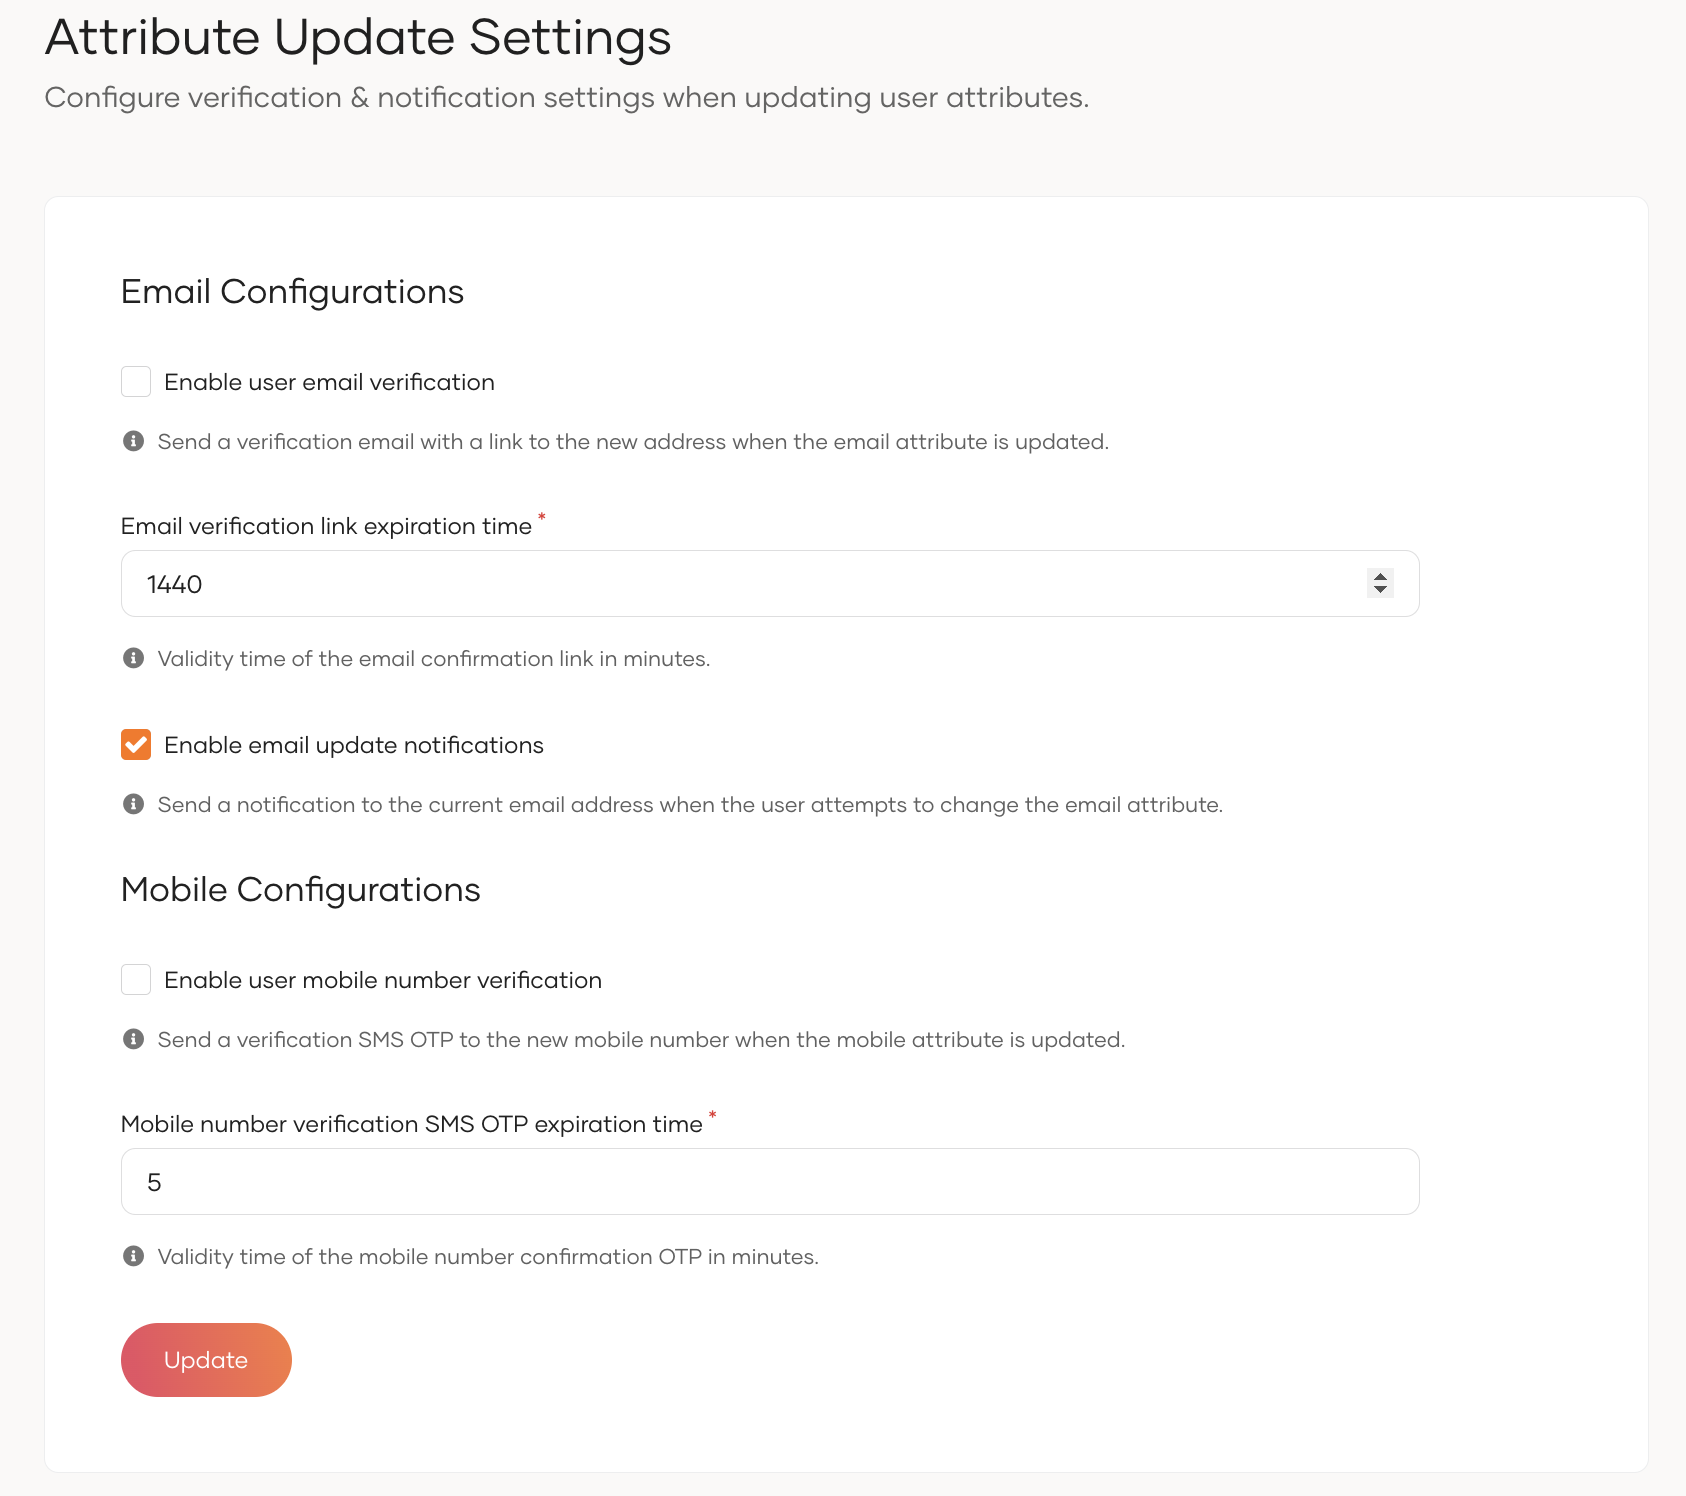
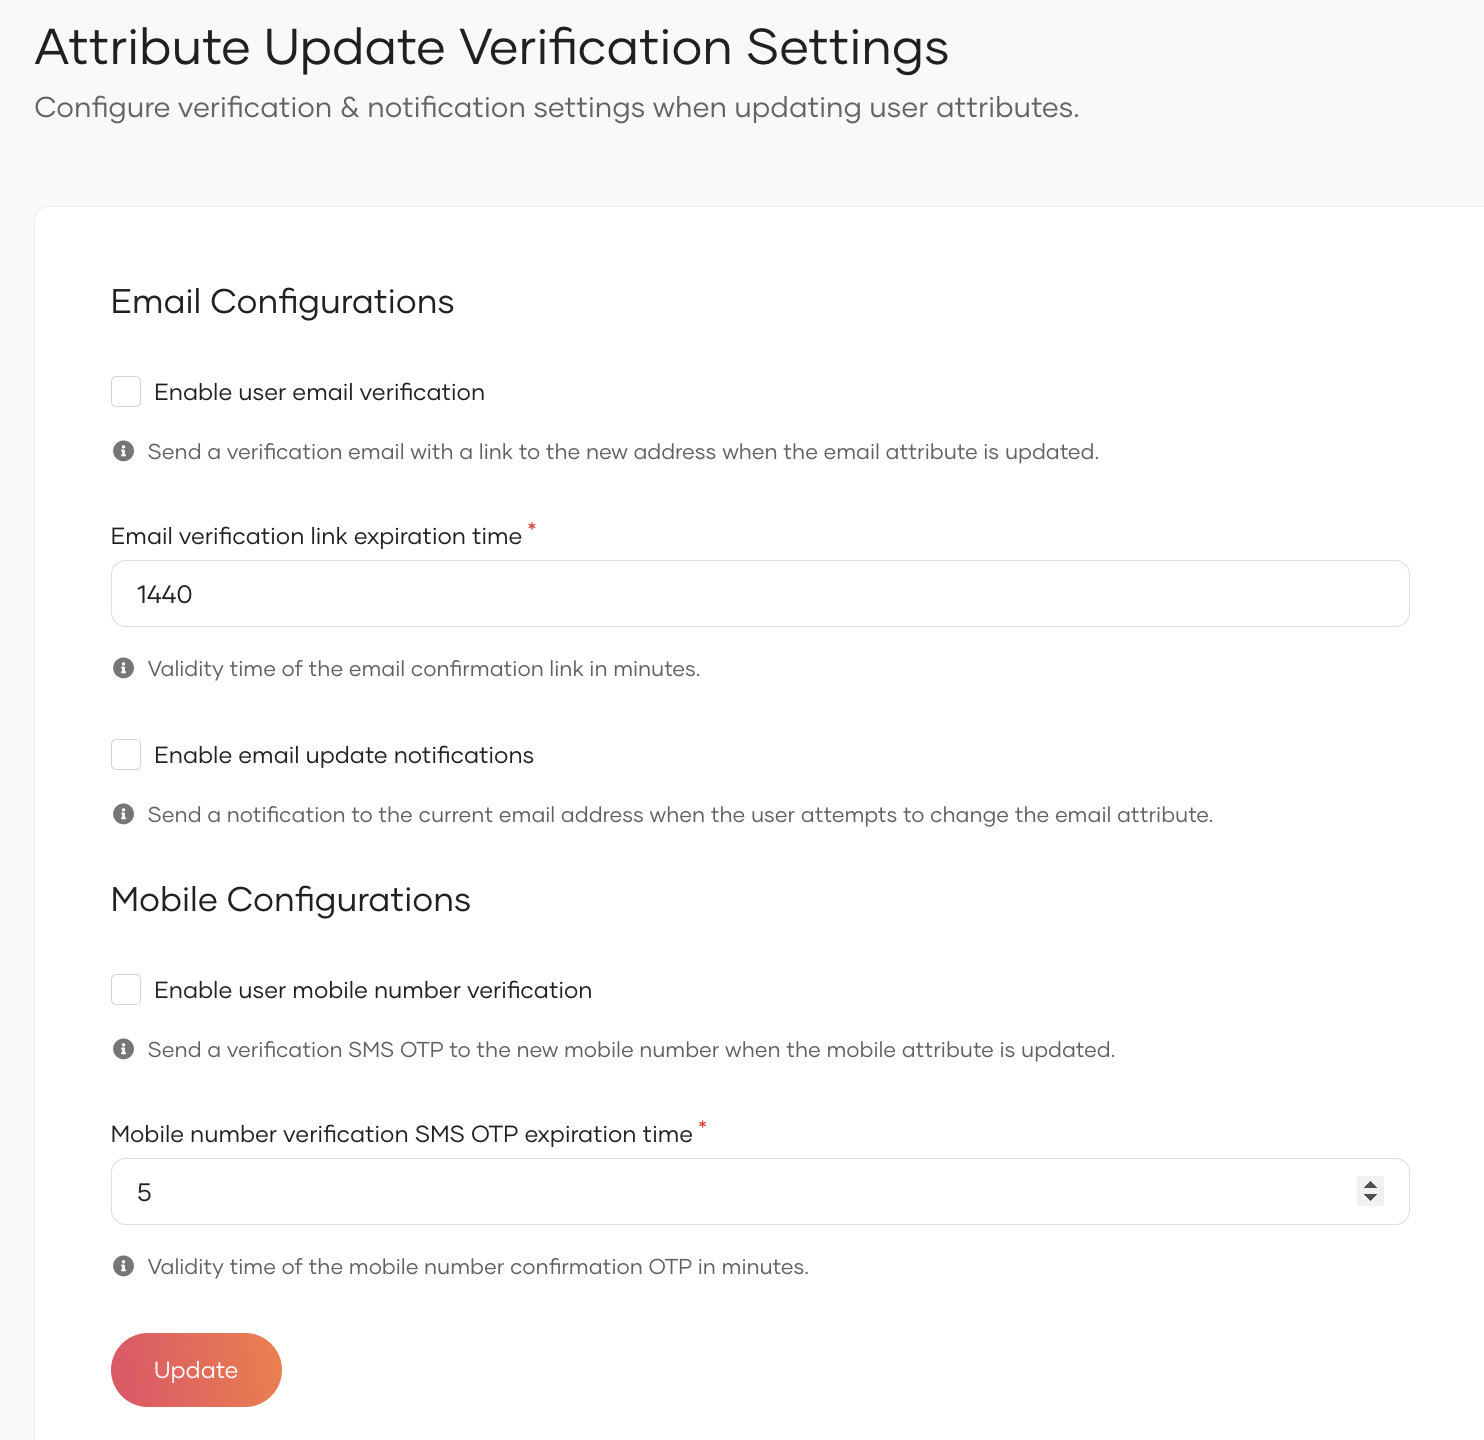
Update image and text of Attribute update verification settings docs

diff --git a/en/includes/guides/users/attributes/user-attribute-change-verification.md b/en/includes/guides/users/attributes/user-attribute-change-verification.md
@@ -6,7 +6,7 @@ Follow the steps below to configure attribute change verification settings:
 
 1. On the {{product_name}} Console, go to **User Attributes & Stores** > **Attributes**.
 
-2. Under **Manage Attributes**, click on **User Attribute Change Verification**.
+2. Under **Manage Attributes**, click on {% if product_name == "Asgardeo" %} **Attribute Update Verification Settings** {% else %} **Attribute Update Settings** {% endif %}.
 
 3. Configure the following properties:
 
